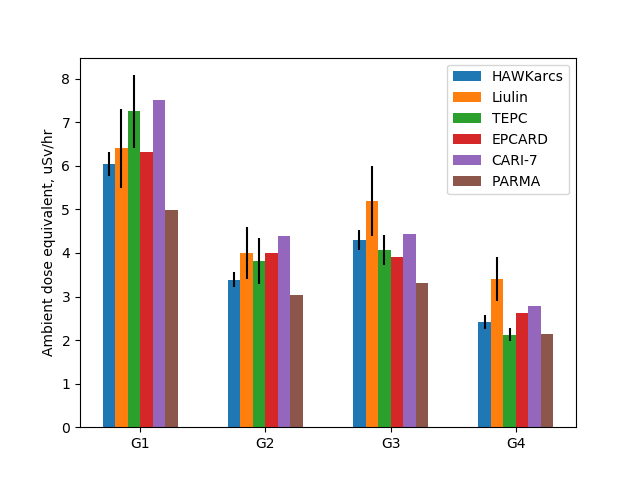
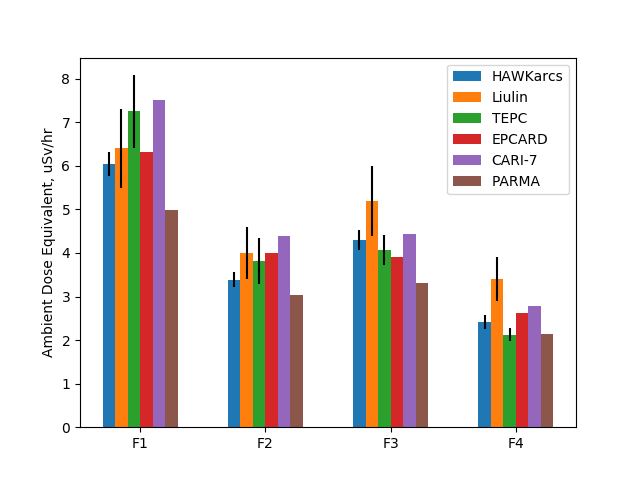
Enabling over-riding the API URL

diff --git a/experiment.py b/experiment.py
@@ -2,6 +2,7 @@ from datetime import datetime
 from datetime import timedelta
 import matplotlib.pyplot as plt
 import numpy as np 
+import os
 import pandas as pd
 import pytz
 import requests
@@ -21,6 +22,8 @@ dt = dt.astimezone(pytz.utc)
 df['datetime'] = df['time'].apply(lambda x : timedelta(seconds=x) + dt)
 # set the time as the index to make plotting simpler
 df.set_index('time', inplace=True)   
+# convert to decimal hours for plotting
+df.index /= 3600
 
 def get_api_data(row, particle, api):
     """
@@ -29,7 +32,14 @@ def get_api_data(row, particle, api):
     Args: row of pandas dataframe, name of api, name of particle
 
     """ 
-    url = "http://cosmicrays.amentum.space/" + api + "/ambient_dose"
+    # check env variable to over-ride 
+    url = "http://cosmicrays.amentum.space/" 
+
+    if os.environ.get('URL') is not None:
+         url = os.environ.get('URL')
+
+    url += api 
+    url += "/ambient_dose"
     
     parameters = {
         "altitude" : row.altitude, #km 
@@ -76,10 +86,10 @@ for plot_total in [True, False]:
         label="Experiment", linestyle="-", drawstyle="steps-post", 
         color="Black", logy=plot_total)
     df['parma gamma'].plot(
-        label="PARMA gamma", linestyle="None", marker="s", 
+        label="PARMA", linestyle="None", marker="s", 
         color="DodgerBlue", logy=plot_total)
     df['cari7 gamma'].plot(
-        label="CARI7 gamma", linestyle="None", marker="o", 
+        label="CARI7", linestyle="None", marker="o", 
         color="OrangeRed", logy=plot_total)
     
     # only plot totals on second graph
@@ -93,10 +103,15 @@ for plot_total in [True, False]:
 
     axes.set_xlim(left=0)
     axes.set_ylim(bottom=0)
-    axes.set_xlabel("Time, s")
-    axes.set_ylabel("Ambient Dose Equivalent, uSv/hr")
+    axes.set_xlabel("Duration, hr")
+    axes.set_ylabel("Ambient Dose Equivalent (gamma), uSv/hr")
 
     plt.legend(loc="upper left")
+
+    ax2 = axes.twinx()
+    ax2.set_ylim(bottom=0, top=df.altitude.max()*1.2)
+    df.altitude.plot(linestyle=":", logy=plot_total, color="Grey")
+    ax2.set_ylabel("Altitude, km")
 
     filename = "lineplot"
     if plot_total : filename += "_totals"

diff --git a/flight.py b/flight.py
@@ -3,10 +3,10 @@ import pandas as pd
 from pint import UnitRegistry
 import numpy as np
 import requests
+import os
 
 ureg = UnitRegistry()
 df = pd.read_csv("flight_data.csv")
-
 
 df.columns = [
     "altitude",
@@ -24,15 +24,26 @@ df.columns = [
     "siev",
     "sieverr",
     "epc"
-    ]
+]
 
 for model in ["parma", "cari7"]:
-    url = "http://cosmicrays.amentum.space/" + model + "/ambient_dose"
+    # check env variable to over-ride 
+    url = "http://cosmicrays.amentum.space/" 
+
+    if os.environ.get('URL') is not None:
+         url = os.environ.get('URL')
+
+    url += model 
+    url += "/ambient_dose"
+
+    print(url)
+
     values = []
 
     for index, row in df.iterrows():
         alt = row["altitude"] * ureg.foot
         alt = alt.to(ureg.kilometer).magnitude
+
         lat = row["lat"]
         lon = row["long"]
 
@@ -46,6 +57,8 @@ for model in ["parma", "cari7"]:
             "utc" : 12,
             "particle" : "total"
         }
+
+        # TODO try/except block
         response = requests.get(url, params=parameters) 
 
         dose_rate = response.json() 
@@ -56,9 +69,7 @@ for model in ["parma", "cari7"]:
 
     df[model] = values
 
-
-
-labels = ['G1', 'G2', 'G3', 'G4', 'G5', 'G6']
+labels = ['F1', 'F2', 'F3', 'F4', 'F5', 'F6']
 
 x = np.arange(df.shape[0])
 
@@ -73,8 +84,7 @@ rects3 = ax.bar(x + width/2, df["epc"], width, label='EPCARD')
 rects3 = ax.bar(x + width * 1.5, df["cari7"], width, label='CARI-7')
 rects3 = ax.bar(x + width * 2.5, df["parma"], width, label='PARMA')
 
-
-ax.set_ylabel('Ambient dose equivalent, uSv/hr')
+ax.set_ylabel('Ambient Dose Equivalent, uSv/hr')
 ax.set_xticks(x)
 ax.set_xticklabels(labels)
 ax.legend()
